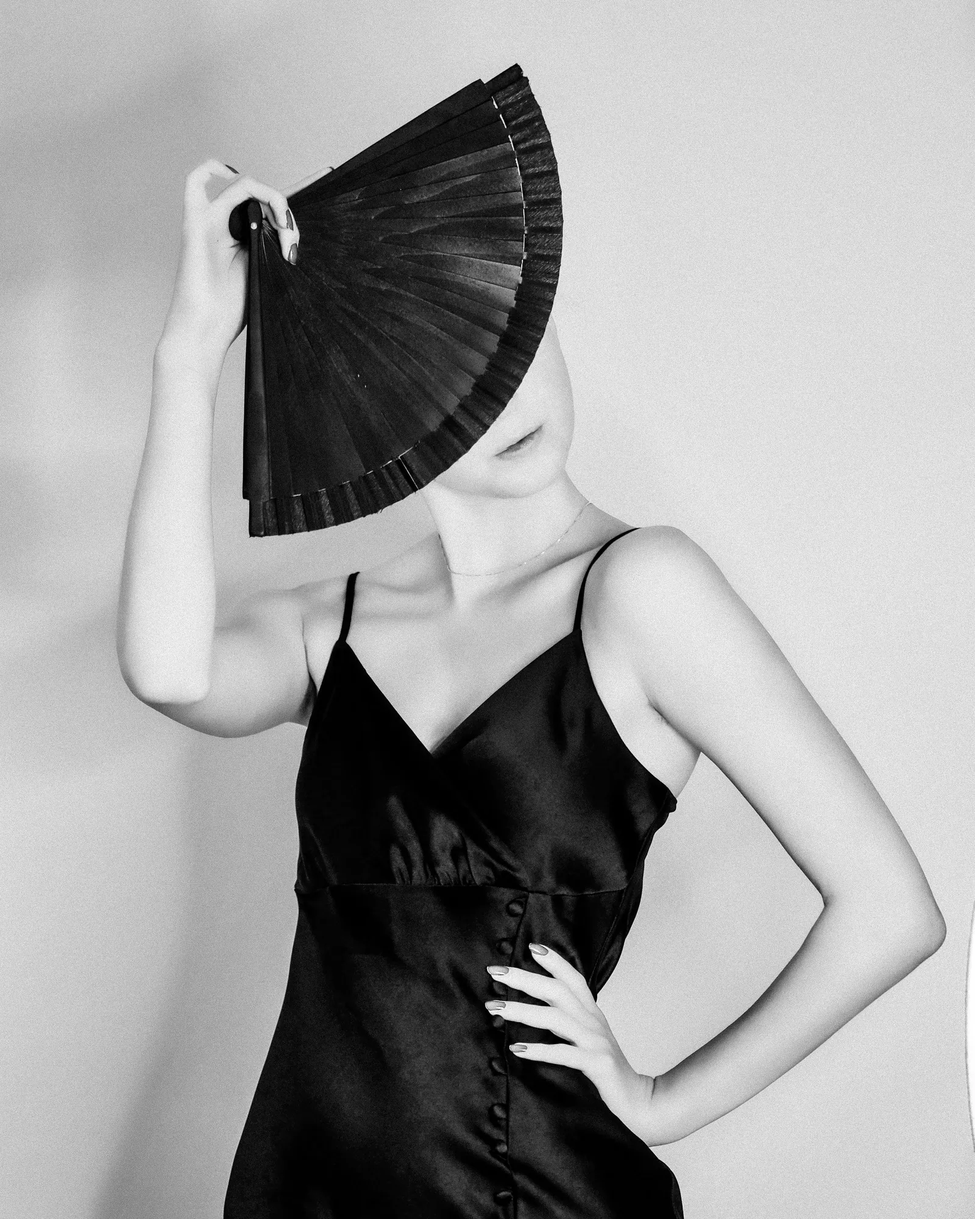
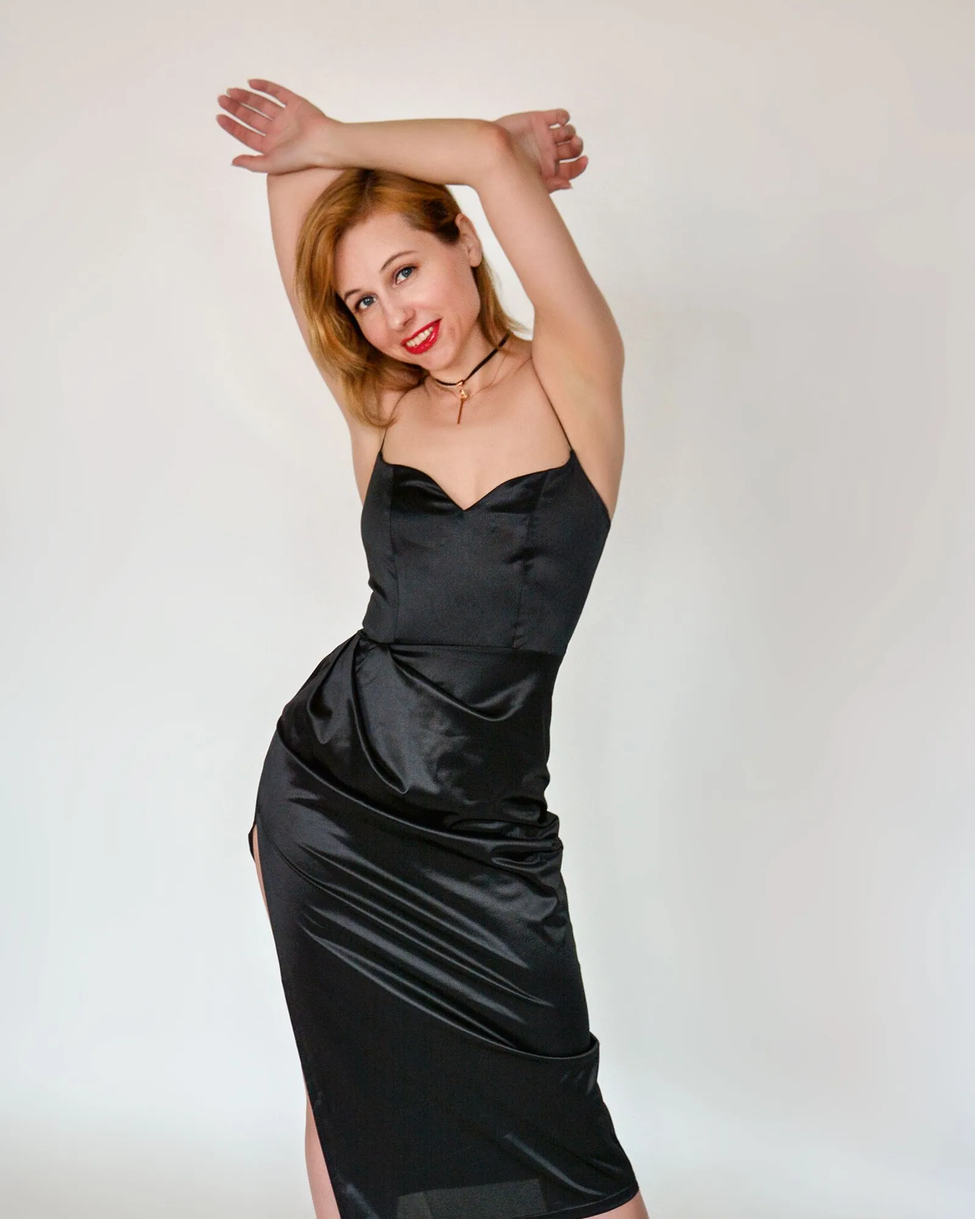
Replace the black-and-white midi dress shoot; add Jersey Mini Dress
- Satin Midi Slip Dress now uses a colour studio shoot (Pexels 7462006,
  7462011, 7462009) instead of black-and-white photos with a fan over the
  model's face, which looked out of place in the grid. Description updated
  to match the new dress (side slit instead of front buttons).
- New Jersey Mini Dress (black), from a beige-backdrop studio shoot.

Claude-Session: https://claude.ai/code/session_01UCUSKdtq93phLH1dci1H7c

diff --git a/README.md b/README.md
@@ -331,9 +331,9 @@ unaltered). Cropped to 4:5 (products), 7:10 (hero), 16:10 (editorial) or square 
 | `satin-slip-dress-1.webp` | https://www.pexels.com/photo/20332983/ |
 | `satin-slip-dress-2.webp` | https://www.pexels.com/photo/20332986/ |
 | `satin-slip-dress-3.webp` | https://www.pexels.com/photo/20332984/ |
-| `satin-midi-slip-dress-1.webp` | https://www.pexels.com/photo/21904524/ |
-| `satin-midi-slip-dress-2.webp` | https://www.pexels.com/photo/21904522/ |
-| `satin-midi-slip-dress-3.webp` | https://www.pexels.com/photo/21904525/ |
+| `satin-midi-slip-dress-1.webp` | https://www.pexels.com/photo/7462006/ |
+| `satin-midi-slip-dress-2.webp` | https://www.pexels.com/photo/7462011/ |
+| `satin-midi-slip-dress-3.webp` | https://www.pexels.com/photo/7462009/ |
 | `strappy-midi-dress-1.webp` | https://www.pexels.com/photo/18851696/ |
 | `strappy-midi-dress-2.webp` | https://www.pexels.com/photo/18851698/ |
 | `chunky-bobble-cardigan-1.webp` | https://www.pexels.com/photo/18851699/ |
@@ -364,3 +364,6 @@ unaltered). Cropped to 4:5 (products), 7:10 (hero), 16:10 (editorial) or square 
 | `leather-shoulder-bag-2.webp` | https://www.pexels.com/photo/13055401/ (detail crop) |
 | `buckle-baguette-bag-2.webp` | https://www.pexels.com/photo/20591023/ (detail crop) |
 | `cotton-trench-coat-2.webp` | https://www.pexels.com/photo/10153584/ (detail crop) |
+| `jersey-mini-dress-1.webp` | https://www.pexels.com/photo/17291685/ |
+| `jersey-mini-dress-2.webp` | https://www.pexels.com/photo/17291682/ |
+| `jersey-mini-dress-3.webp` | https://www.pexels.com/photo/17291688/ |
